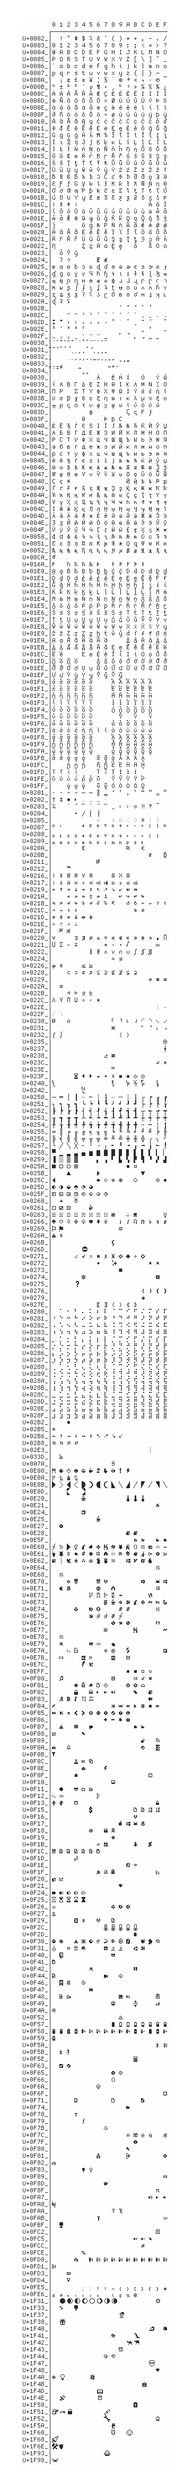
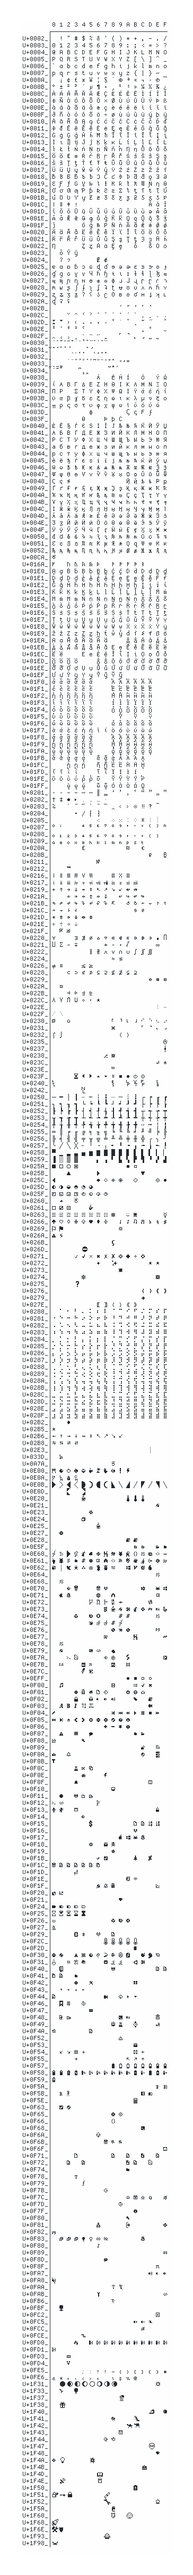
v.1.19.0 The yoshiyoshyosh update - versioning, repo meta

diff --git a/CHANGELOG.md b/CHANGELOG.md
@@ -5,6 +5,85 @@ All notable changes to this project will be documented in this file.
 The format is based on [Keep a Changelog], and this project adheres to
 [Semantic Versioning].
 
+## [1.19.0]
+
+### Added
+
+-  (U+E235)
+-  (U+F144)
+-  (U+F40E)
+-  (U+F40F)
+-  (U+F411)
+-  (U+F413)
+-  (U+F423)
+-  (U+F431)
+-  (U+F432)
+-  (U+F433)
+-  (U+F434)
+-  (U+F44A)
+-  (U+F44B)
+-  (U+F499)
+-  (U+F4A5)
+-  (U+F53B)
+-  (U+F541)
+-  (U+F542)
+-  (U+F543)
+-  (U+F544)
+-  (U+F545)
+-  (U+F546)
+-  (U+F54B)
+-  (U+F54C)
+-  (U+F54D)
+-  (U+F553)
+-  (U+F554)
+-  (U+F55A)
+-  (U+F55B)
+-  (U+F55C)
+-  (U+F5BC)
+-  (U+F5BD)
+-  (U+F68C)
+-  (U+F6B7)
+-  (U+F6B8)
+-  (U+F6B9)
+-  (U+F715)
+-  (U+F71A)
+-  (U+F71E)
+-  (U+F71F)
+-  (U+F720)
+-  (U+F722)
+-  (U+F723)
+-  (U+F724)
+-  (U+F725)
+-  (U+F72A)
+-  (U+F72B)
+-  (U+F72D)
+-  (U+F75F)
+-  (U+F760)
+-  (U+F761)
+-  (U+F762)
+-  (U+F763)
+-  (U+F7D9)
+-  (U+F831)
+-  (U+F832)
+-  (U+F833)
+-  (U+F836)
+-  (U+F837)
+-  (U+F83C)
+-  (U+F886)
+-  (U+F887)
+- ﭨ (U+FB68 ARABIC LETTER TTEH INITIAL FORM)
+
+### Changed
+
+- ʃ (U+0283 LATIN SMALL LETTER ESH)
+-  (U+F310)
+-  (U+F713)
+-  (U+F718)
+
+### Removed
+
+-  (U+F5B0)
+
 ## [1.18.1]
 
 ### Added
@@ -1961,7 +2040,8 @@ Still broken on Windows.
 
 [Keep a Changelog]: https://keepachangelog.com/en/1.0.0/
 [Semantic Versioning]: https://semver.org/spec/v2.0.0.html
-[unreleased]: https://github.com/slavfox/Cozette/compare/v.1.18.1...HEAD
+[unreleased]: https://github.com/slavfox/Cozette/compare/v.1.19.0...HEAD
+[1.19.0]: https://github.com/slavfox/Cozette/compare/v.1.18.1...1.19.0
 [1.18.1]: https://github.com/slavfox/Cozette/compare/v.1.18.0...v.1.18.1
 [1.18.0]: https://github.com/slavfox/Cozette/compare/v.1.17.2...v.1.18.0
 [1.17.2]: https://github.com/slavfox/Cozette/compare/v.1.17.1...v.1.17.2

diff --git a/README.md b/README.md
@@ -24,6 +24,7 @@ A bitmap programming font optimized for coziness.
 - [Roadmap](#roadmap)
 - [Recommended alternatives](#recommended-alternatives)
 - [Character map](#character-map)
+- [Contributors](#contributors)
 - [License](#license)
 
 # About Cozette
@@ -213,13 +214,15 @@ $ pipenv run python3.8 build.py changelog
 
 will output the changelog between your local version and the last tag.
 
-# License
-
-Cozette is licensed [MIT] 💜
+# Contributors
 
 Massive thanks to [ym1234] for helping me figure out how to make the font tables behave nicely.
 
-Additional thanks to [autumn] and [cpkio] for contributing characters!
+Thanks to [autumn], [cpkio], and [yoshiyoshyosh] for contributing characters!
+
+# License
+
+Cozette is licensed [MIT] 💜
 
 [dina]: https://www.dcmembers.com/jibsen/download/61/
 [proggy]: https://github.com/bluescan/proggyfonts
@@ -244,3 +247,4 @@ Additional thanks to [autumn] and [cpkio] for contributing characters!
 [ym1234]: https://github.com/ym1234
 [autumn]: https://github.com/auctumnus
 [cpkio]: https://github.com/cpkio
+[yoshiyoshyosh]: https://github.com/yoshiyoshyosh
